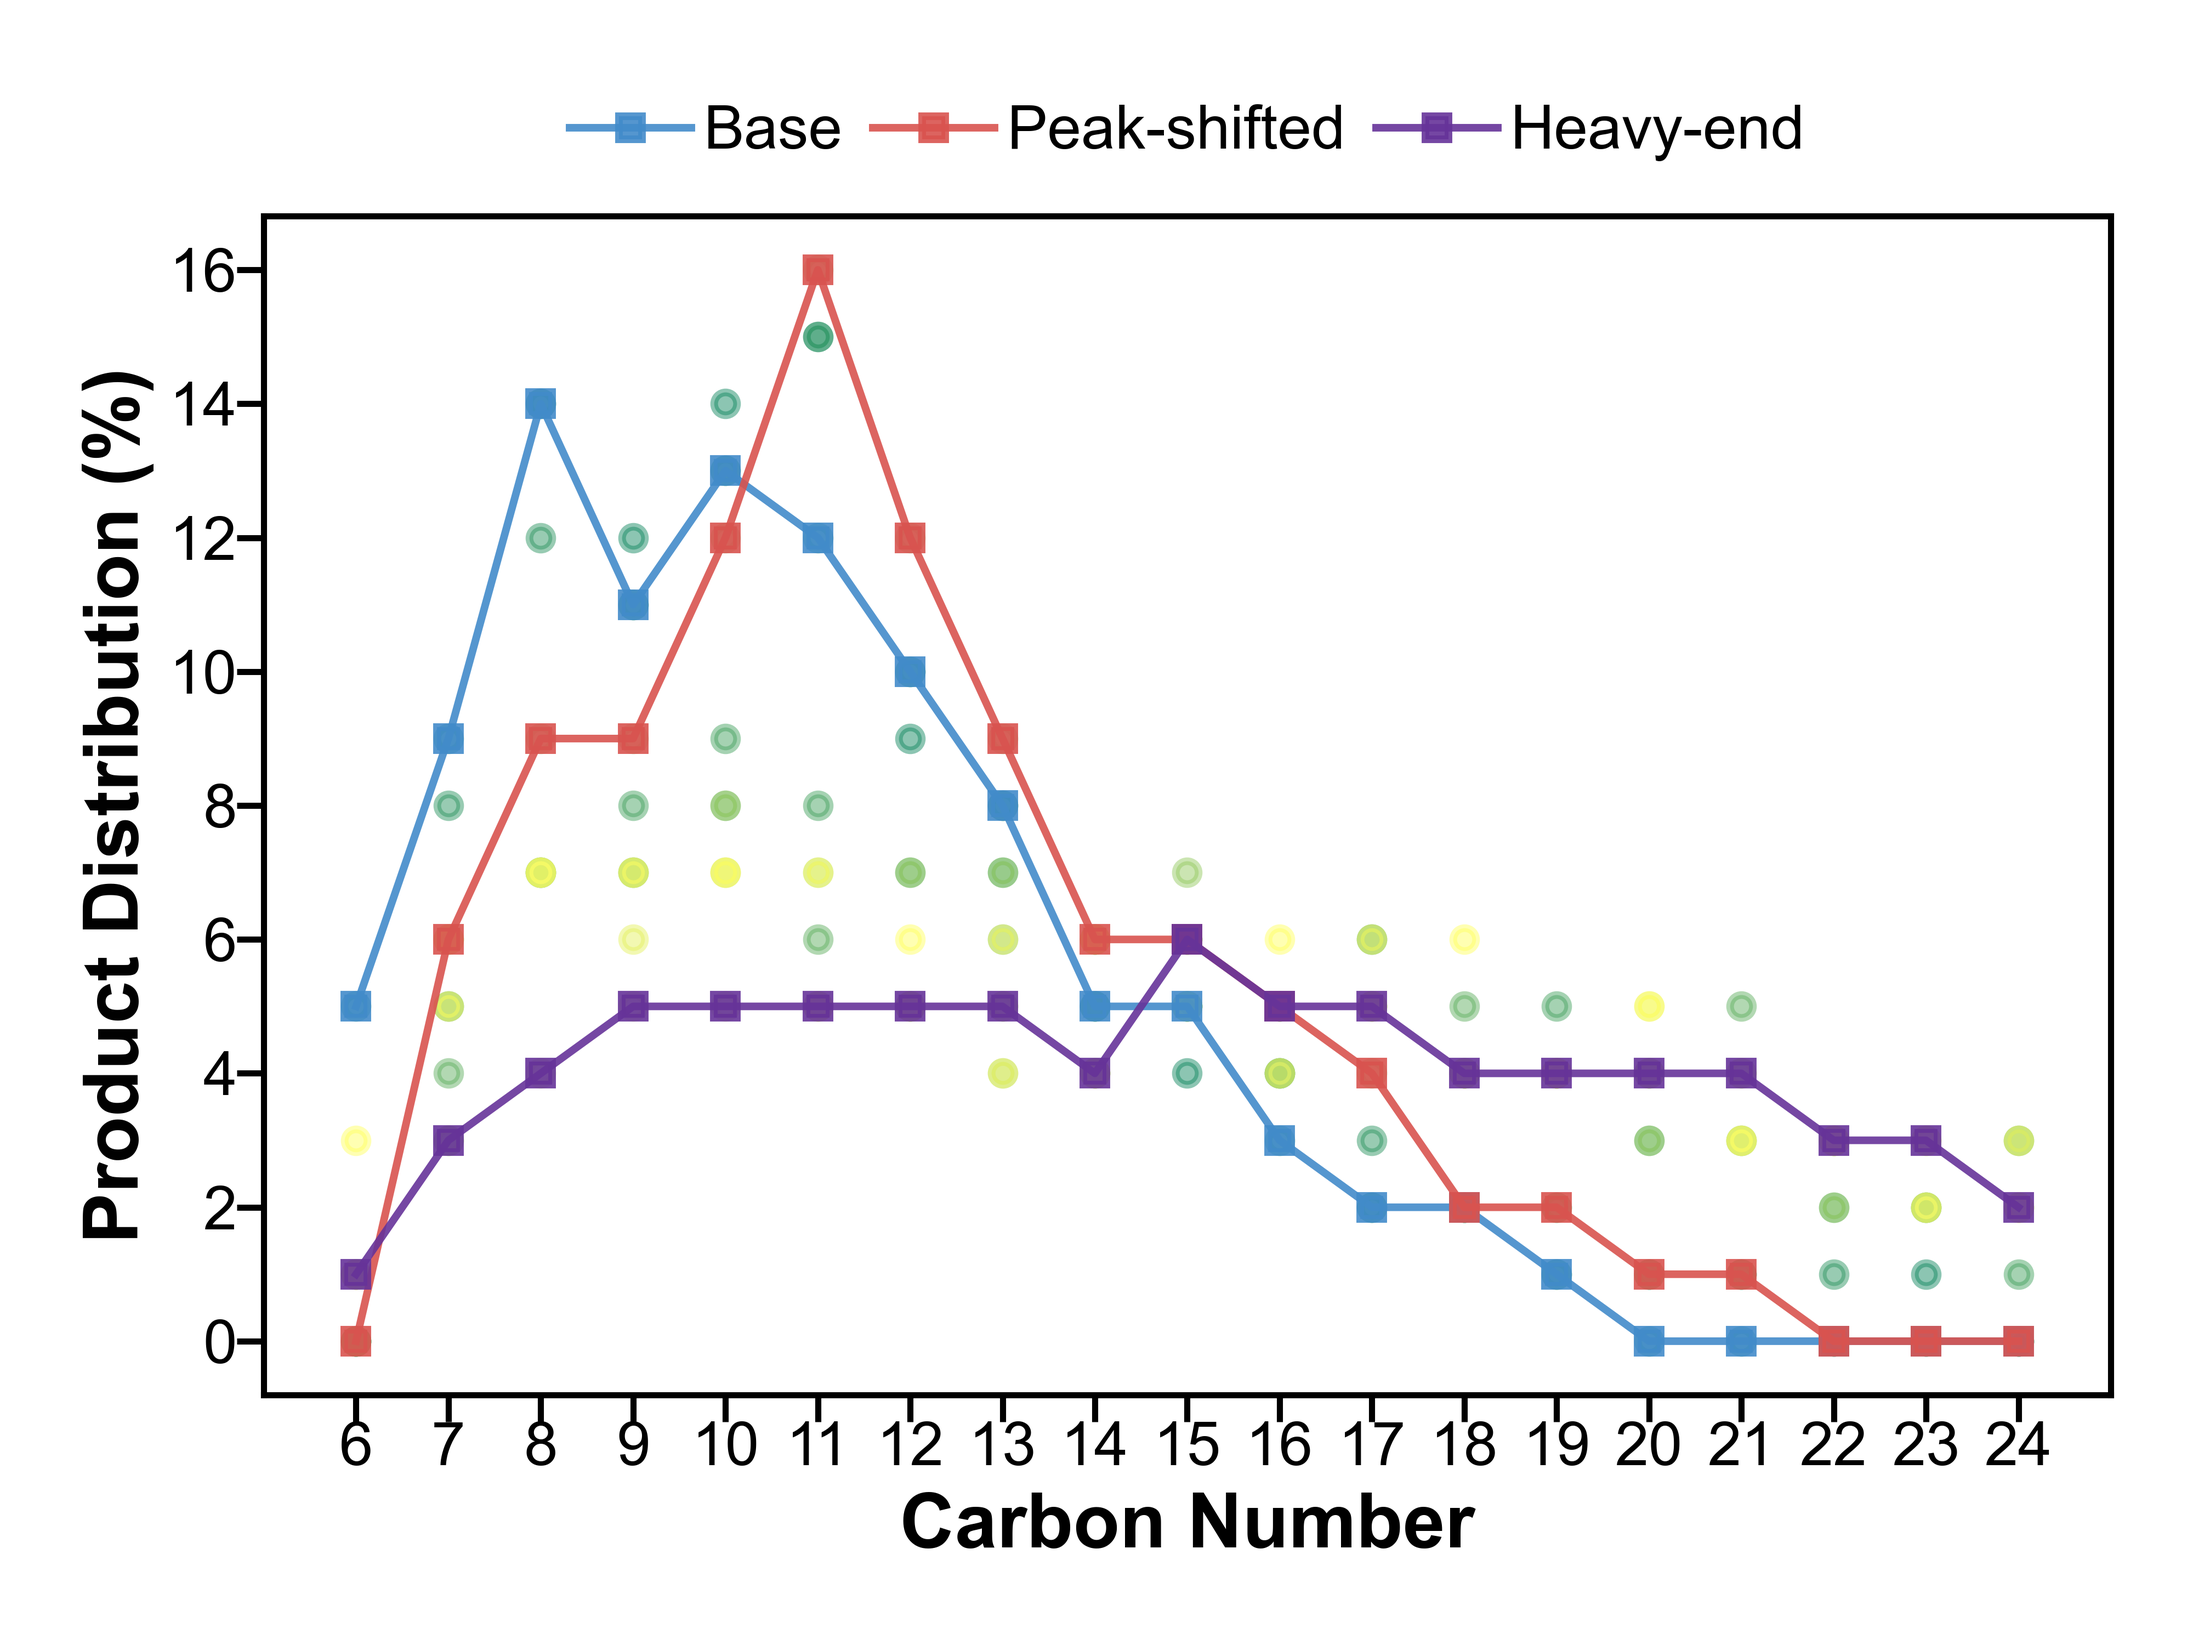
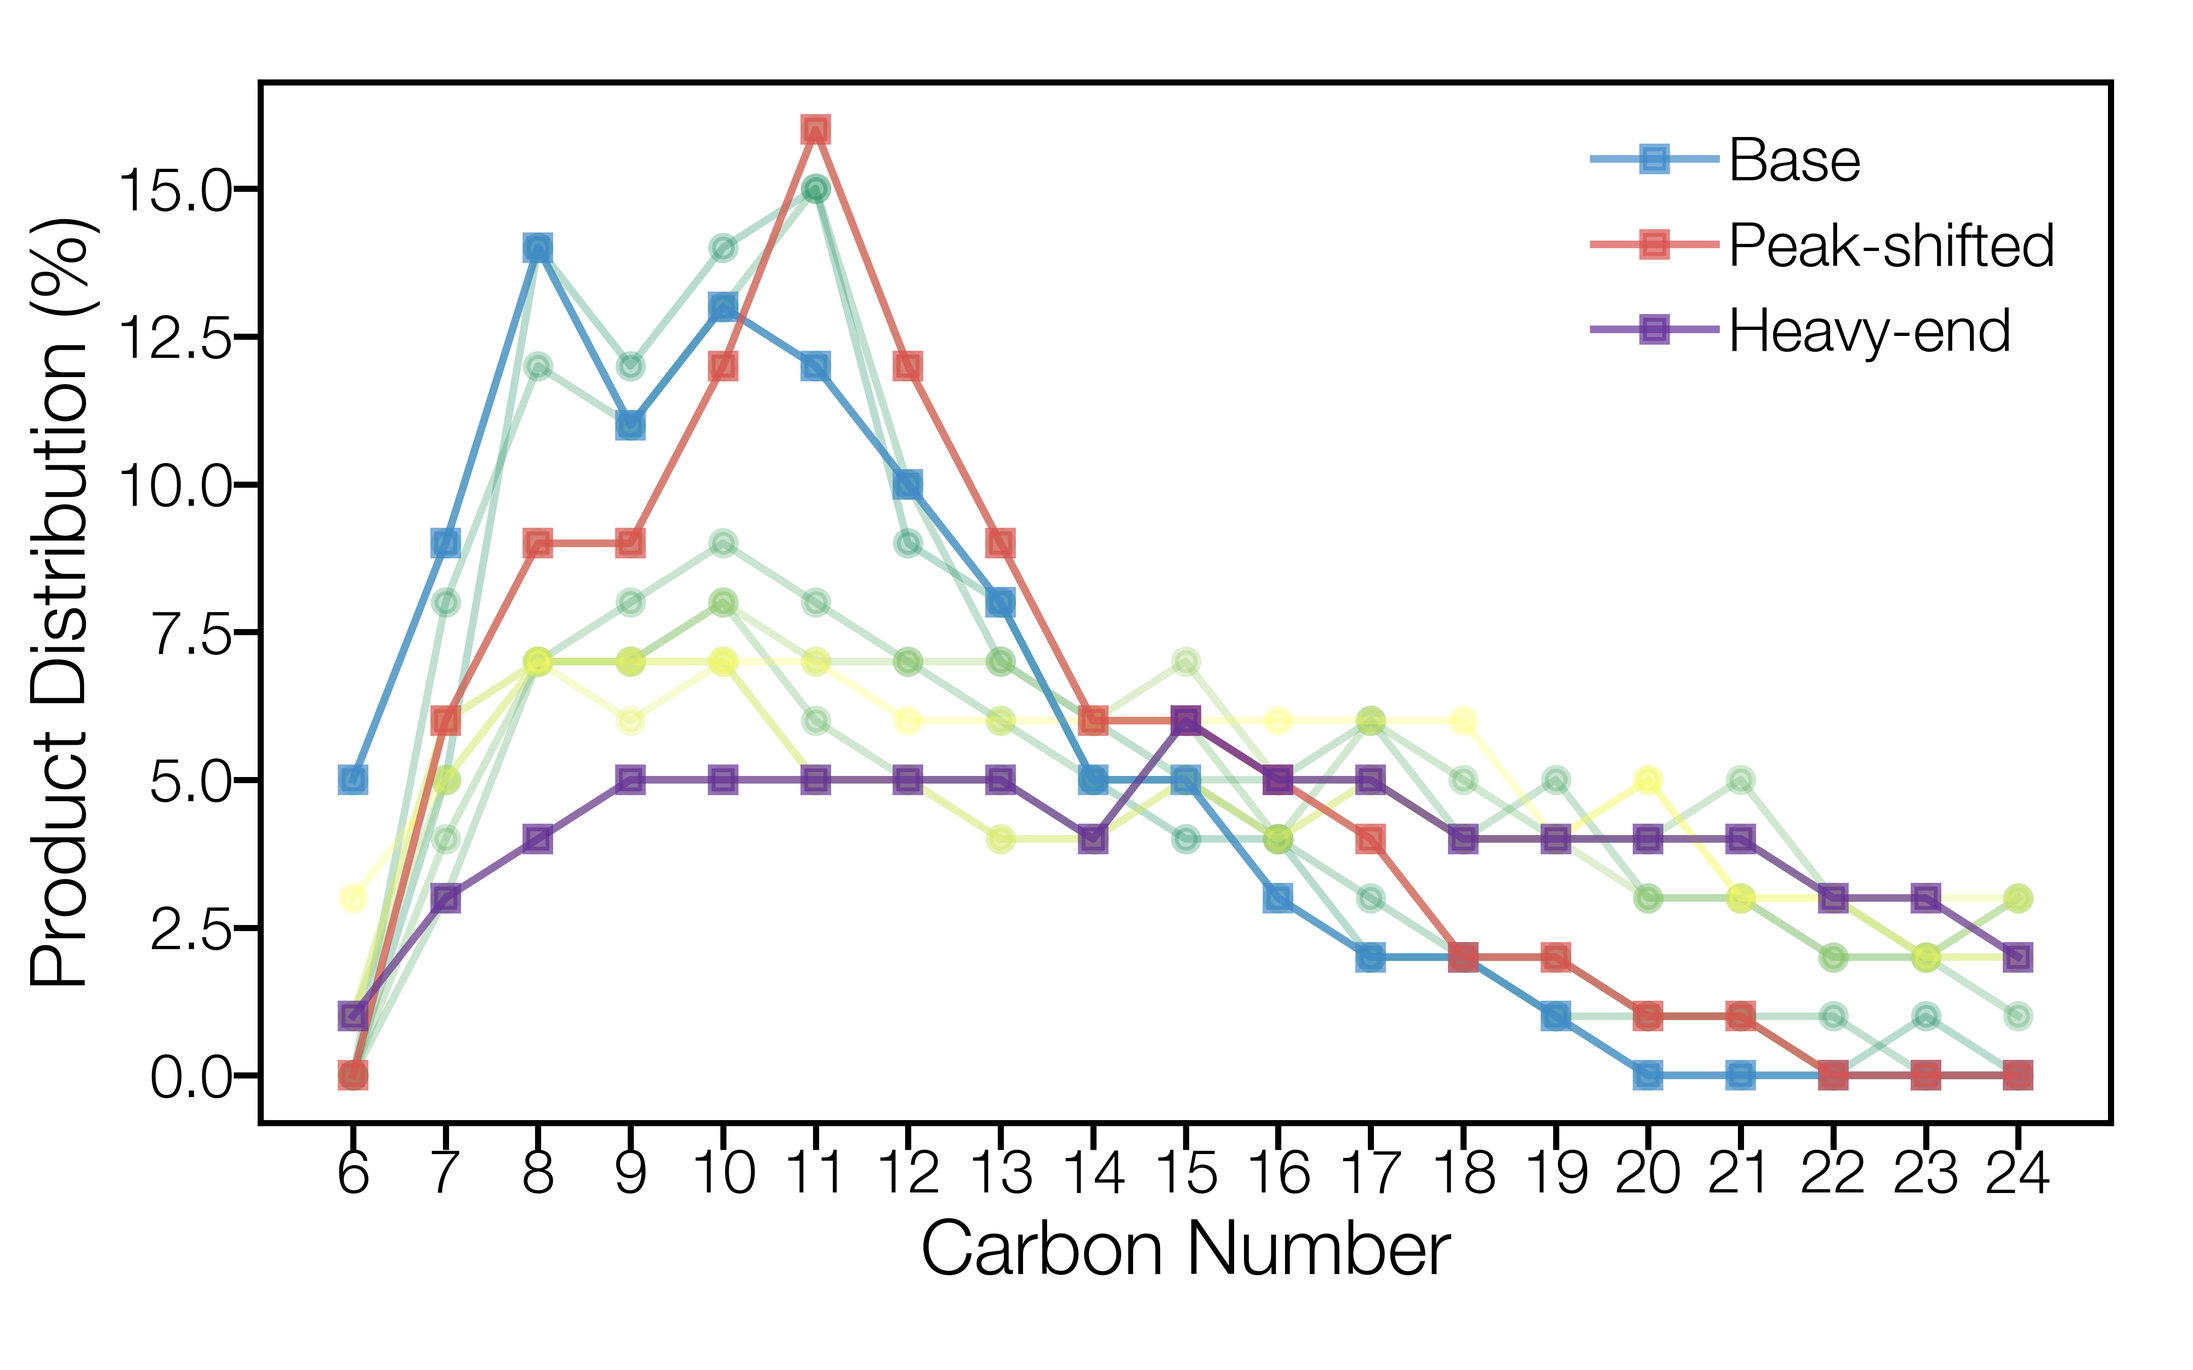
Revise carbon number validation plot

Changed region(s): [[0.0, 0.0312, 0.9688, 0.9672], [0.7188, 0.2184, 0.9062, 0.2496], [0.0, 0.156, 0.0312, 0.2184]]

diff --git a/plotting_sensitivity.py b/plotting_sensitivity.py
@@ -14,44 +14,81 @@ def extract_tag(name):
     return None # Return None if pattern doesn't match
 
 #%%
-file_simulation = r"D:\SAF_Nurul\Sensitivity_1210\results_random_final.csv"
-file_res = r"D:\SAF_Nurul\Sensitivity_1210\SAF_Sensitivity_Analysis_251204_converged_corrected.xlsx"
+file_simulation = [r"D:\SAF_Nurul\Sensitivity_1210\results_random_final.csv",
+                   r"D:\SAF_Nurul\Sensitivity_1210\results_param_0.csv",
+                   r"D:\SAF_Nurul\Sensitivity_1210\results_param_1.csv"]
+file_res = [r"D:\SAF_Nurul\Sensitivity_1210\SAF_Sensitivity_Analysis_251204_converged_corrected.xlsx",
+            r"D:\SAF_Nurul\Sensitivity_1210\SAF_Sensitivity_Analysis_251203_param_0.xlsx",
+            r"D:\SAF_Nurul\Sensitivity_1210\SAF_Sensitivity_Analysis_251204_param_1.xlsx"]
+file_type = ['RD', 'PP', 'PH']
 
-df_sim = pd.read_csv(file_simulation).set_index('case_num')
-df_raw_tea = pd.read_excel(file_res, sheet_name="TEA").transpose()
-df_raw_lca = pd.read_excel(file_res, sheet_name="LCA")
+dsim, dtea, dlca = [], [], []
+for fsim, fres, ftype in zip(file_simulation, file_res, file_type):
+    ds = pd.read_csv(fsim)
+    ds['case_name'] =  [ftype + str(i) for i in ds['case_num'].tolist()]
+    ds = ds.set_index('case_name')
 
-tags_tea = [extract_tag(col) for col in df_raw_tea.index]
-tags_tea[0] = 'Case Number'
-tags_row_tea = pd.DataFrame([tags_tea], columns=df_raw_tea.index, index=['case_num']).transpose()
-df_tea = pd.concat([tags_row_tea, df_raw_tea], axis=1)
+    dt = pd.read_excel(fres, sheet_name="TEA").transpose()
+    tags_tea = ['Case Number']
+    for i in dt.index[1:].tolist():
+        tag = extract_tag(i)
+        if tag is None:
+            tags_tea.append(np.nan)
+        else:
+            tags_tea.append(ftype + str(tag))
+    # tags_tea = [extract_tag(i) for i in dt.index]
+    # tags_tea[0] = 'Case Number'
+    tags_row_tea = pd.DataFrame([tags_tea], columns=dt.index, index=['case_num']).transpose()
+    dt = pd.concat([tags_row_tea, dt], axis=1)
+    new_columns = pd.MultiIndex.from_arrays([dt.loc['ComponentGroup'], dt.loc['Category']],
+                                            names=['ComponentGroup', 'Category'])
+    dt_multi = dt.copy()
+    dt_multi.columns = new_columns
+    dt_multi = dt_multi.drop(['ComponentGroup', 'Category'])
 
-tags_lca = [extract_tag(case[:-4]) for case in df_raw_lca['Case']]
-tags_row_lca = pd.DataFrame([tags_lca], columns=df_raw_lca.index, index=['case_num']).transpose()
-df_lca = pd.concat([tags_row_lca, df_raw_lca], axis=1)
+    dl = pd.read_excel(fres, sheet_name="LCA")
+    tags_lca = [ftype + str(extract_tag(case[:-4])) for case in dl['Case']]
+    tags_row_lca = pd.DataFrame([tags_lca], columns=dl.index, index=['case_num']).transpose()
+    dl = pd.concat([tags_row_lca, dl], axis=1)
+
+    dsim.append(ds)
+    dtea.append(dt_multi)
+    dlca.append(dl)
+
+df_sim = pd.concat(dsim)
+df_tea = pd.concat(dtea)
+df_lca = pd.concat(dlca)
+
+# df_sim = pd.read_csv(file_simulation).set_index('case_num')
+# df_raw_tea = pd.read_excel(file_res, sheet_name="TEA").transpose()
+# df_raw_lca = pd.read_excel(file_res, sheet_name="LCA")
+
+# tags_lca = [extract_tag(case[:-4]) for case in df_raw_lca['Case']]
+# tags_row_lca = pd.DataFrame([tags_lca], columns=df_raw_lca.index, index=['case_num']).transpose()
+# df_lca = pd.concat([tags_row_lca, df_raw_lca], axis=1)
 # %
-new_columns = pd.MultiIndex.from_arrays([df_tea.loc['ComponentGroup'], df_tea.loc['Category']],
-                                        names=['ComponentGroup', 'Category'])
-df_tea_multi = df_tea.copy()
-df_tea_multi.columns = new_columns
+# new_columns = pd.MultiIndex.from_arrays([df_tea.loc['ComponentGroup'], df_tea.loc['Category']],
+#                                         names=['ComponentGroup', 'Category'])
+# df_tea_multi = df_tea.copy()
+# df_tea_multi.columns = new_columns
 
-msp = pd.DataFrame(df_tea_multi['MSP [$/kg]'][np.nan].iloc[2:].copy().tolist(),
-                   index=df_tea_multi['Case Number'][np.nan].iloc[2:].copy().tolist())
-h2 = pd.DataFrame(df_tea_multi['H2 consumption [kg/hr]'][np.nan].iloc[2:].copy().tolist(),
-                   index=df_tea_multi['Case Number'][np.nan].iloc[2:].copy().tolist())/1000
-ng = pd.DataFrame(df_tea_multi['NG feed [kg/hr]'][np.nan].iloc[2:].copy().tolist(),
-                   index=df_tea_multi['Case Number'][np.nan].iloc[2:].copy().tolist())/1000
-ncg = pd.DataFrame((df_tea_multi['LG in 416 [kg/hr]'][np.nan].iloc[2:].copy() +
-                   df_tea_multi['CH4 in 416 [kg/hr]'][np.nan].iloc[2:].copy()).tolist(),
-                   index=df_tea_multi['Case Number'][np.nan].iloc[2:].copy().tolist())/1000
-saf = pd.DataFrame(df_tea_multi['SAF production [kg/hr]'][np.nan].iloc[2:].copy().tolist(),
-                   index=df_tea_multi['Case Number'][np.nan].iloc[2:].copy().tolist())/1000
-capex = pd.DataFrame(df_tea_multi['CAPEX']['Total CAPEX'].iloc[2:].copy().tolist(),
-                   index=df_tea_multi['Case Number'][np.nan].iloc[2:].copy().tolist())/1e6
-opex = pd.DataFrame(df_tea_multi['OPEX']['Total OPEX'].iloc[2:].copy().tolist(),
-                   index=df_tea_multi['Case Number'][np.nan].iloc[2:].copy().tolist())/1e6
+msp = pd.DataFrame(df_tea['MSP [$/kg]'][np.nan].copy().tolist(),
+                   index=df_tea['Case Number'][np.nan].copy().tolist())
+h2 = pd.DataFrame(df_tea['H2 consumption [kg/hr]'][np.nan].copy().tolist(),
+                   index=df_tea['Case Number'][np.nan].copy().tolist())/1000
+ng = pd.DataFrame(df_tea['NG feed [kg/hr]'][np.nan].copy().tolist(),
+                   index=df_tea['Case Number'][np.nan].copy().tolist())/1000
+ncg = pd.DataFrame((df_tea['LG in 416 [kg/hr]'][np.nan].copy() +
+                   df_tea['CH4 in 416 [kg/hr]'][np.nan].copy()).tolist(),
+                   index=df_tea['Case Number'][np.nan].copy().tolist())/1000
+saf = pd.DataFrame(df_tea['SAF production [kg/hr]'][np.nan].copy().tolist(),
+                   index=df_tea['Case Number'][np.nan].copy().tolist())/1000
+capex = pd.DataFrame(df_tea['CAPEX']['Total CAPEX'].copy().tolist(),
+                   index=df_tea['Case Number'][np.nan].copy().tolist())/1e6
+opex = pd.DataFrame(df_tea['OPEX']['Total OPEX'].copy().tolist(),
+                   index=df_tea['Case Number'][np.nan].copy().tolist())/1e6
 lca = pd.concat([df_lca['Alloc_SAF_5'], df_lca['case_num']], axis=1).set_index('case_num')*1000
-valid_indices = [int(i) for i in lca.index.tolist()]
+valid_indices = [i for i in lca.index.tolist()]
 sim_selected = df_sim.loc[valid_indices].copy()
 
 pretty_names = ['Heavy-end', 'Peak Shift']
@@ -305,8 +342,8 @@ dpi = 200
 config_figure = {'figure.figsize': (14, 4),
                  'figure.titlesize': fs,
                  'font.size': fs, 'font.family': 'sans-serif', 'font.serif': ['computer modern roman'],
-                 'font.sans-serif': ['Arial'],  # Avenir LT Std, Helvetica Neue LT Pro, Helvetica LT Std, Helvetica Neue LT Pro
                  'font.weight': '300', 'axes.titleweight': 'bold', 'axes.labelweight': 'bold',
+                 'font.sans-serif': ['Arial'],  # Avenir LT Std, Helvetica Neue LT Pro, Helvetica LT Std, Helvetica Neue LT Pro
                  'axes.xmargin': 0, 'axes.titlesize': fs, 'axes.labelsize': fs, 'axes.labelpad': 2,
                  'xtick.labelsize': fs-2, 'ytick.labelsize': fs-2, 'xtick.major.pad': 0, 'ytick.major.pad': 0,
                  'legend.fontsize': fs-2, 'legend.title_fontsize': fs, 'legend.frameon': False,

diff --git a/sensitivity_analysis.py b/sensitivity_analysis.py
@@ -96,10 +96,10 @@ from matplotlib import rcParams
 import numpy as np
 fs = 10
 dpi = 200
-config_figure = {'figure.figsize': (9, 2.5), 'figure.titlesize': fs,
+config_figure = {'figure.figsize': (4, 2.5), 'figure.titlesize': fs,
                  'font.size': fs, 'font.family': 'sans-serif', 'font.serif': ['computer modern roman'],
-                 'font.sans-serif': ['Arial'],
-                 'font.weight': '300', 'axes.titleweight': 'bold', 'axes.labelweight': 'bold',
+                 'font.sans-serif': ['Helvetica Neue LT Pro'],
+                 'font.weight': '300', 'axes.titleweight': '400', 'axes.labelweight': '300',
                  'axes.xmargin': 0, 'axes.titlesize': fs, 'axes.labelsize': fs, 'axes.labelpad': 2,
                  'xtick.labelsize': fs-2, 'ytick.labelsize': fs-2, 'xtick.major.pad': 0, 'ytick.major.pad': 0,
                  'legend.fontsize': fs-2, 'legend.title_fontsize': fs, 'legend.frameon': False,
@@ -112,10 +112,10 @@ config_figure = {'figure.figsize': (9, 2.5), 'figure.titlesize': fs,
                  'text.latex.preamble': r'\usepackage{amsmath,amssymb,bm,physics,lmodern,cmbright}'}
 rcParams.update(config_figure)
 
-fig, axs = plt.subplots(1, 3, sharex=True, sharey=True)
 target_to_draw = ['a', 'f', 'i']
 label_to_draw = ['Base', 'Peak-shifted', 'Heavy-end']
-for ax, t, l in zip(axs, target_to_draw, label_to_draw):
+for t, l in zip(target_to_draw, label_to_draw):
+    fig, ax = plt.subplots(1, 1)
     target_val = {k: v for (k,v) in targets[t].items() if k < 25}
     c = original_coefficients[names.index(t)]
     hdo_res = original_results[names.index(t)]
@@ -128,10 +128,7 @@ for ax, t, l in zip(axs, target_to_draw, label_to_draw):
     ax2.set_ylim([-5, 105])
     ax2.tick_params(axis='y', labelcolor='#e95924', color='#e95924')
     ax2.spines['right'].set_color("#e95924")
-    if t == 'i':
-        ax2.set_ylabel("Cumulative Distribution (%)", color='#e95924')
-    else:
-        ax2.tick_params(labelright=False)
+    ax2.set_ylabel("Cumulative Distribution (%)", color='#e95924')
 
     ax.plot(target_val.keys(), [v * 100 for v in target_val.values()], '-o', markersize=3, label="Experiment",
             color='k', alpha=0.7)
@@ -139,36 +136,61 @@ for ax, t, l in zip(axs, target_to_draw, label_to_draw):
             color='g', alpha=0.7)
 
     ax.set_xlim([5, 25])
-    x_ticks = np.arange(6, 25, 1)
+    x_ticks = np.arange(6, 25, 3)
     ax.set_xticks(x_ticks)
     ax.set_xlabel("Carbon Number")
-    if t == 'a':
-        ax.set_ylabel("Product Distribution (%)")
-    ax.set_title(l)
+    ax.set_ylim([-0.4, 18.2])
+    ax.set_ylabel("Product Distribution (%)")
 
-fig.tight_layout()
-plt.savefig(r'D:\saf_hdo\figures\experimental_validation.png')
-plt.show()
+    lines_1, labels_1 = ax.get_legend_handles_labels()
+    lines_2, labels_2 = ax2.get_legend_handles_labels()
+    lines = lines_1 + lines_2
+    labels = labels_1 + labels_2
+    ax.legend(lines, labels, loc='center right')
+
+    fig.tight_layout()
+    plt.savefig(os.path.join(r'D:\saf_hdo\figures', f'experimental_validation_{l}.png'))
+    plt.show()
 
 #%%
-fig, ax = plt.subplots(1, 1, figsize=(4, 3))
+from matplotlib import rcParams
+import numpy as np
+fs = 10
+dpi = 200
+config_figure = {'figure.figsize': (4, 2.5), 'figure.titlesize': fs,
+                 'font.size': fs, 'font.family': 'sans-serif', 'font.serif': ['computer modern roman'],
+                 'font.sans-serif': ['Helvetica Neue LT Pro'],
+                 'font.weight': '300', 'axes.titleweight': '400', 'axes.labelweight': '300',
+                 'axes.xmargin': 0, 'axes.titlesize': fs, 'axes.labelsize': fs, 'axes.labelpad': 2,
+                 'xtick.labelsize': fs-2, 'ytick.labelsize': fs-2, 'xtick.major.pad': 0, 'ytick.major.pad': 0,
+                 'legend.fontsize': fs-2, 'legend.title_fontsize': fs, 'legend.frameon': False,
+                 'legend.labelspacing': 0.5, 'legend.columnspacing': 0.5, 'legend.handletextpad': 0.2,
+                 'lines.linewidth': 1, 'hatch.linewidth': 0.5, 'hatch.color': 'w',
+                 'figure.subplot.left': 0.15, 'figure.subplot.right': 0.93,
+                 'figure.subplot.top': 0.95, 'figure.subplot.bottom': 0.15,
+                 'figure.dpi': dpi, 'savefig.dpi': dpi*5, 'savefig.transparent': False,  # change here True if you want transparent background
+                 'text.usetex': False, 'mathtext.default': 'regular',
+                 'text.latex.preamble': r'\usepackage{amsmath,amssymb,bm,physics,lmodern,cmbright}'}
+rcParams.update(config_figure)
+
+fig, ax = plt.subplots(1, 1)
 colors = ['#428bca', '#d9534f', '#663399']
 cmap_target = cm.get_cmap('summer', len(targets))
 for i, (key, val) in enumerate(targets.items()):
     val_to_draw = {k: v*100 for (k, v) in val.items() if k < 25}
-    ax.plot(val_to_draw.keys(), val_to_draw.values(), 'o', markersize=3, color=cmap_target(i),
-            alpha=0.5)
+    ax.plot(val_to_draw.keys(), val_to_draw.values(), '-o', markersize=3, color=cmap_target(i),
+            alpha=0.3)
 for i, n in enumerate(target_to_draw):
     val_to_draw = {k: v*100 for (k, v) in targets[n].items() if k < 25}
     ax.plot(val_to_draw.keys(), val_to_draw.values(), '-s', markersize=3, color=colors[i],
-            label=label_to_draw[i], alpha=0.9)
+            label=label_to_draw[i], alpha=0.7)
 ax.set_xlim(5, 25)
 x_ticks = np.arange(6, 25, 1)
 ax.set_xticks(x_ticks)
 ax.set_xlabel("Carbon Number")
 ax.set_ylabel("Product Distribution (%)")
 
-plt.legend(loc='lower center', bbox_to_anchor=(0.5, 1.0), ncol=3)
+plt.legend(loc='upper right')
 plt.tight_layout()
 plt.savefig(r'D:\saf_hdo\figures\experimental_data.png')
 plt.show()
